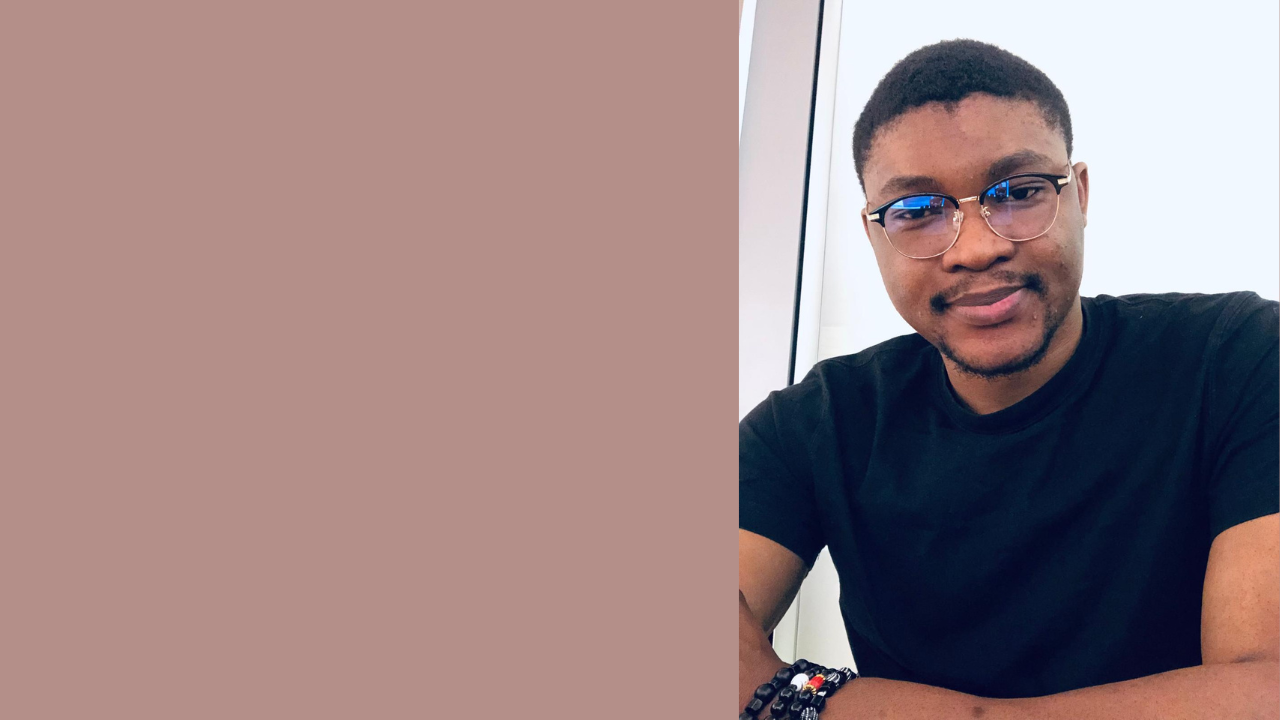
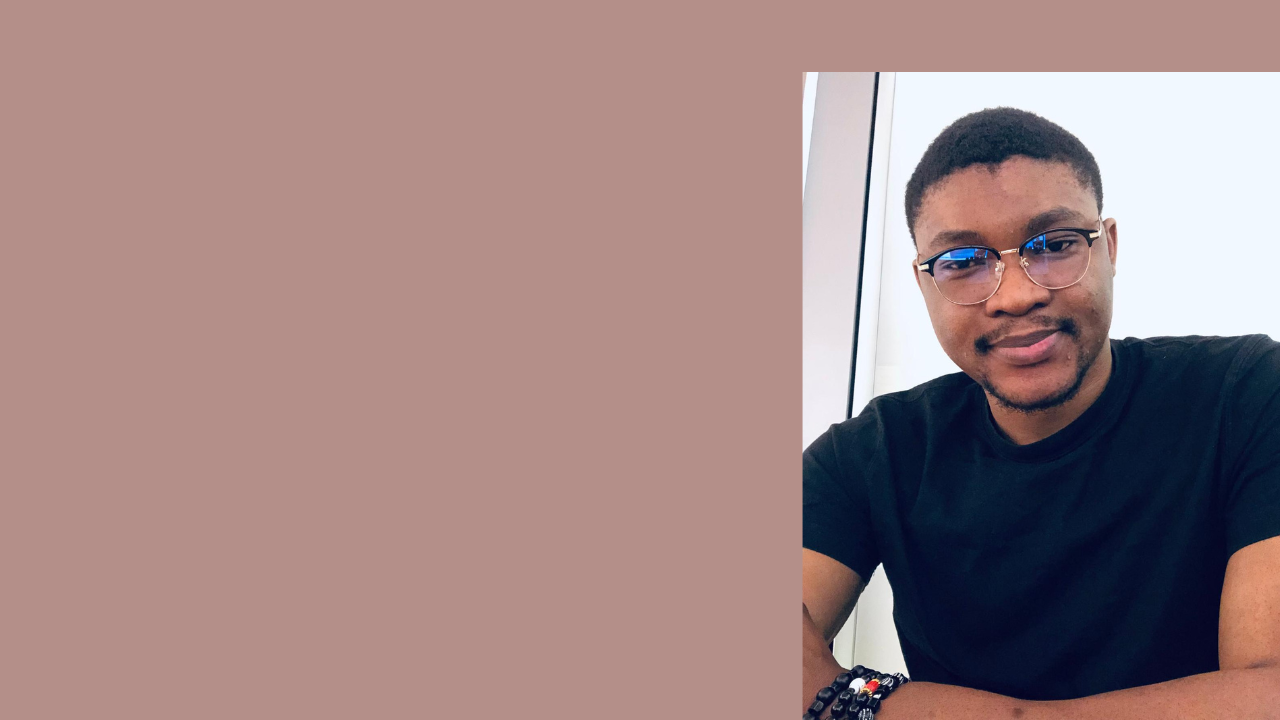
Updates: 2026-02-01T08:55:15.927Z

Changed region(s): [[0.5625, 0.0, 1.0, 1.0]]

diff --git a/css/styles.css b/css/styles.css
@@ -532,7 +532,7 @@ input[type='checkbox'] {
 .header {
 	padding-top: 7rem;
 	padding-bottom: 5.5rem;
-	background: linear-gradient(rgba(0, 0, 0, 0.1), rgba(0, 0, 0, 0.1)), url('../images/1.png') center center no-repeat;
+	background: linear-gradient(rgba(0, 0, 0, 0.1), rgba(0, 0, 0, 0.1)), url('../images/2.png') center center no-repeat;
 	background-size: cover;
 	text-align: center;
 }
